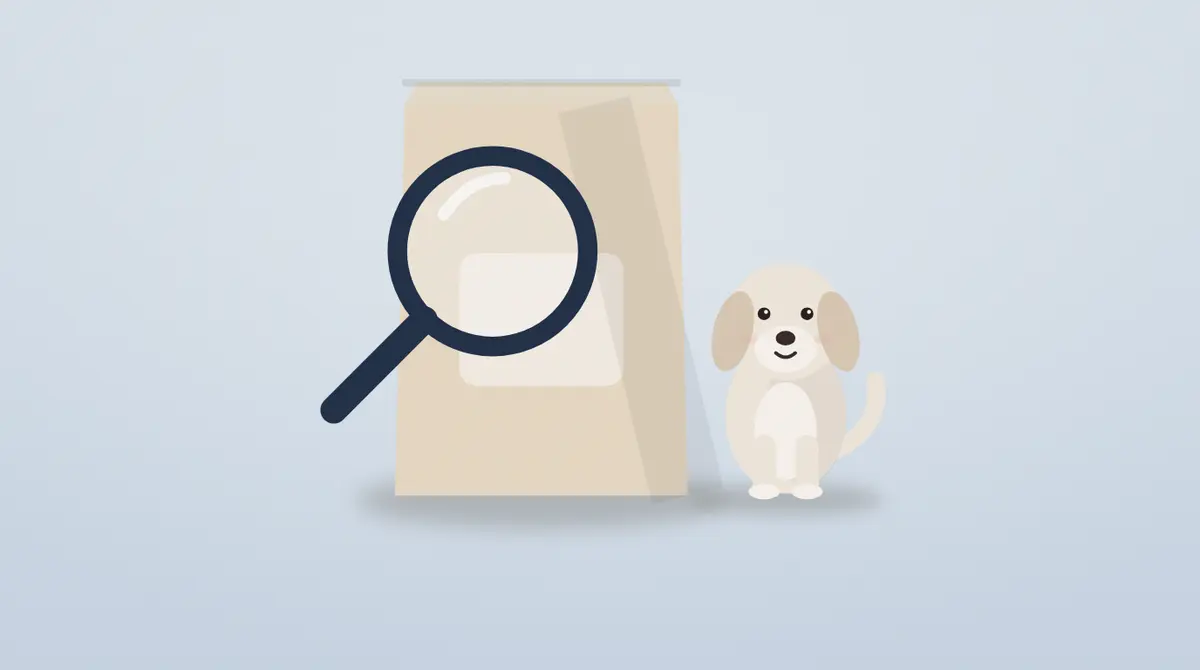
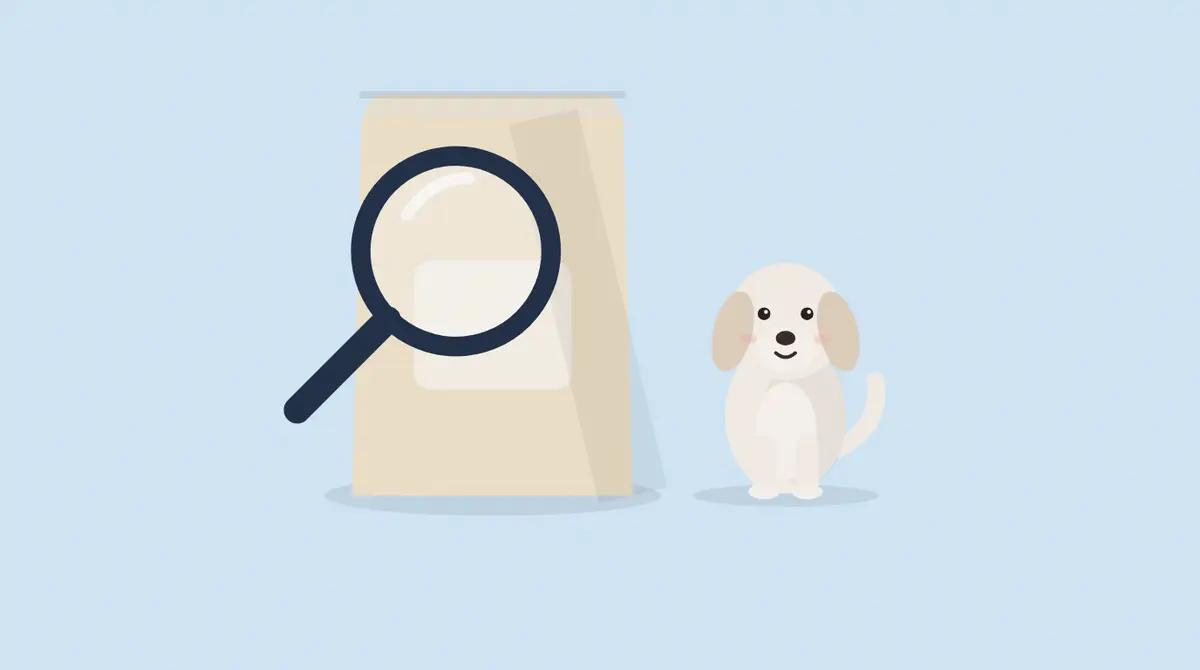
콘텐츠 표지 전부를 처음 파스텔 강아지 일러스트로 교체 (분류 기본 그림 포함) (#55)
Claude-Session: https://claude.ai/code/session_01TcKTz7ncs25YpVZ36UnmVZ

Changed region(s): [[0.2158, 0.1194, 0.74, 0.806]]

diff --git a/app.js b/app.js
@@ -1589,7 +1589,7 @@ const COVER_IMG = { 'label-read': 1, 'allergy': 1, 'tear-stain': 1, 'food-types'
 const COVER_CAT = { '성분 가이드': 'cat-guide', '생애주기': 'cat-life', '영양': 'cat-nutri', '건강 고민': 'cat-health', '사료 종류': 'cat-types', '구매 팁': 'cat-buy' };
 function articleCover(a, cls = '') {
   const key = COVER_IMG[a.id] ? a.id : (COVER_CAT[a.cat] || 'cat-guide');
-  const src = a.cover || `assets/covers/${key}.webp?v=7`;
+  const src = a.cover || `assets/covers/${key}.webp?v=8`;
   if (/^(https?:|assets\/)/.test(src)) return `<span class="ac ${cls}"><img src="${esc(src)}" alt="" loading="lazy"></span>`;
   const [bg, fg] = COVER_TONE[a.cat] || ['var(--surface)', 'var(--ink70)'];
   return `<span class="ac ${cls}" style="--cbg:${bg};--cfg:${fg}" aria-hidden="true">

diff --git a/index.html b/index.html
@@ -71,7 +71,7 @@ const COUNTRY_KO = {KR:'대한민국',CA:'캐나다',US:'미국',FR:'프랑스',
   DE:'독일',IT:'이탈리아',NL:'네덜란드',BE:'벨기에',GB:'영국',JP:'일본',TH:'태국'};
 const SHOP_KO = {coupang:'쿠팡',brand_official:'공식몰',naver:'네이버',other:'판매처'};
 </script>
-<script src="app.js?v=202610100100"></script>
+<script src="app.js?v=202610100200"></script>
 <script src="native.js?v=202610080838"></script>
 </body>
 </html>
